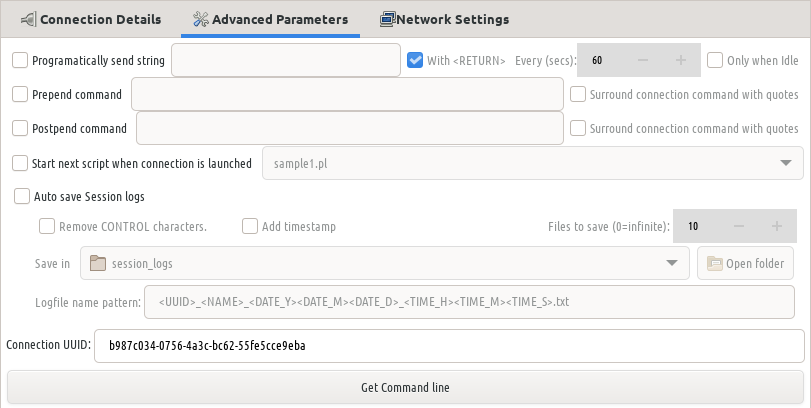
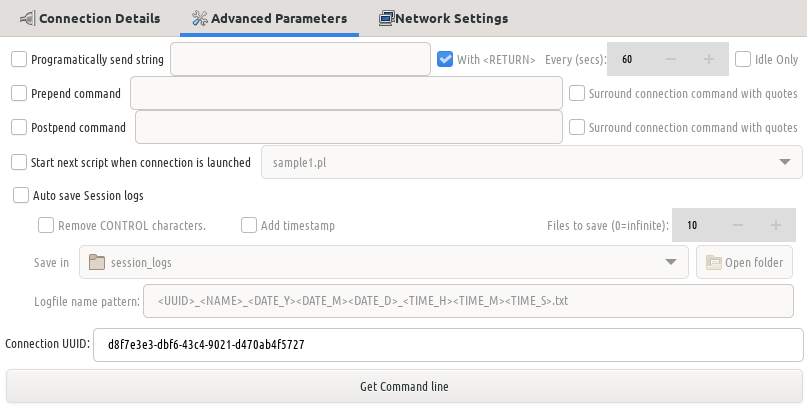
docs: Summarize "Only When Idle" to "Idle Only"

diff --git a/doc/Manual/Connections/SSH.md b/doc/Manual/Connections/SSH.md
@@ -41,9 +41,9 @@
 ![](images/ssh2.png)
 
 + __Programmatically send a string__ : Send a specified regex expression every selected seconds to the terminal.
-    + _Only when Idle_: Restart the timer (from `Every X seconds field`) each time the terminal is updated or focused.
+    + _Idle Only_: Restart the timer (from `Every X seconds field`) each time the terminal is updated or focused., effectively preventing the string from being sent unless the terminal has been idle for the configured period.
 + __Prepend command__ : Add this command before the ssh command connection string.
-+ __Start next script when connection is launched__ : * Pending
++ __script when connection is launched__ : * Pending
 + __Auto save session logs__ : Save session log at the end of the session. Select the location.
     + _Log pattern name_: Define the pattern to name your session file.
 
